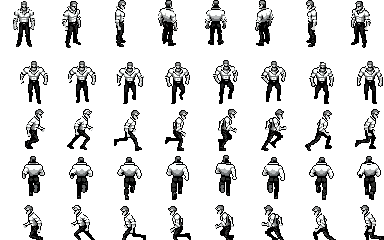
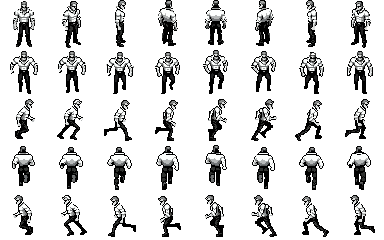
実況・解説・勝敗予想を削除、走りのコマがずれて下が切れる不具合を修正
- 観戦モードの実況・解説の字幕と勝敗予想を取り除く（自動カメラと体力の綱引きは残す）
- 十河・錠二・七海・鷺沼のキャラチップ：走りのコマ（68px）を48pxのマスに
  切り抜かずに貼っていたため、下にずれて次の段にはみ出していた。中央の48pxを
  切り抜いて作り直した

Claude-Session: https://claude.ai/code/session_01CfV5NHM6m6kNSHujH82y7P

diff --git a/public/js/spectate.js b/public/js/spectate.js
@@ -1,8 +1,5 @@
-// 観戦モードを面白くする仕掛け：実況の字幕、見どころを追う自動カメラ、両チームの体力の綱引き、勝敗予想
-import { ABILITIES } from './engine/data.js';
+// 観戦モード：見どころのある人物を追う自動カメラ
 import { dist } from './engine/vec.js';
-
-const pick = (rng, list) => list[Math.floor(rng() * list.length)];
 
 // ---------- 自動カメラ：いま一番見どころのある人物を映す ----------
 export class Director {
@@ -49,160 +46,4 @@ export class Director {
     this.fixed = i + 1 < ids.length ? ids[i + 1] : null;
     return this.fixed ? b.chars.find(c => c.id === this.fixed).name : '自動';
   }
-}
-
-// ---------- 実況：戦闘の記録から、見どころを字幕にする ----------
-export class Commentator {
-  constructor(b) {
-    this.b = b;
-    this.seen = new WeakSet();
-    this.queue = [];
-    this.current = null;
-    this.shownAt = 0;
-    this.lastEventAt = 0;
-    this.usedAbility = new Set();
-    this.lowHp = new Set();
-    this.leader = null;
-    this.firstBlood = false;
-    this.rng = Math.random;
-    this.say('実況', pick(this.rng, ['さあ、戦いの火ぶたが切られた！', '両者、位置についた。どんな戦いになるか！', 'スタンド使い同士の戦い、開始！']), 1);
-  }
-
-  say(who, text, pri = 1) {
-    // 優先度の低い字幕は詰まっていたら捨てる
-    if (this.queue.length > 3 && pri < 2) return;
-    this.queue.push({ who, text, pri });
-    this.queue.sort((p, q) => q.pri - p.pri);
-  }
-
-  name(id) {
-    const c = this.b.chars.find(x => x.id === id);
-    return c ? c.name : '';
-  }
-
-  // 新しい記録を見て字幕を作る
-  update() {
-    const b = this.b;
-    for (const e of b.log) {
-      if (this.seen.has(e)) continue;
-      this.seen.add(e);
-      this.react(e);
-    }
-    // 形勢逆転（与えたダメージの多い側が入れ替わった）
-    const d0 = b.teamDealt(0), d1 = b.teamDealt(1);
-    const lead = d0 > d1 + 8 ? 0 : d1 > d0 + 8 ? 1 : this.leader;
-    if (lead !== null && this.leader !== null && lead !== this.leader) {
-      this.say('実況', pick(this.rng, ['形勢逆転！ 流れが変わった！', 'ここでひっくり返した！ 与えたダメージで逆転！', '追い上げて、ついに逆転！']), 2);
-    }
-    this.leader = lead;
-    // 体力が少なくなった
-    for (const c of b.chars) {
-      if (c.alive && c.hp < c.maxHp * 0.25 && !this.lowHp.has(c.id)) {
-        this.lowHp.add(c.id);
-        this.say('実況', pick(this.rng, [`${c.name}、残りの体力がわずか！ 踏ん張れるか！`, `${c.name}は追い詰められた！ あと一撃が命取り！`]), 2);
-      }
-    }
-    // 静かな時間が続いたら、状況を伝える
-    if (b.t - this.lastEventAt > 9) {
-      this.lastEventAt = b.t;
-      this.say('解説', this.situation(), 0);
-    }
-  }
-
-  react(e) {
-    const b = this.b;
-    const t = e.text || '';
-    const actor = e.actor ? this.name(e.actor) : '';
-    let m;
-    if (e.kind === 'ko') {
-      this.lastEventAt = b.t;
-      this.say('実況', pick(this.rng, [`決まったー！ ${t.replace(/ は再起不能.*$/, '')}、再起不能！`, `${t.replace(/ は再起不能.*$/, '')}、ここで力尽きた！`]), 3);
-      return;
-    }
-    if (e.kind === 'damage' && (m = /^(.+?) に(.*?)(\d+)ダメージ/.exec(t))) {
-      const dmg = Number(m[3]);
-      if (/安全地帯/.test(t)) return;
-      if (!this.firstBlood) {
-        this.firstBlood = true;
-        this.lastEventAt = b.t;
-        this.say('実況', `先に当てたのは${actor || '攻撃側'}！ ${m[1]}に${dmg}ダメージ！`, 2);
-      } else if (dmg >= 15) {
-        this.lastEventAt = b.t;
-        this.say('実況', pick(this.rng, [`強烈！ ${m[1]}に${dmg}ダメージ！`, `重い一撃が入った！ ${m[1]}、${dmg}ダメージ！`, `これは効いた！ ${dmg}ダメージ！`]), 2);
-      }
-      return;
-    }
-    if (e.kind === 'ability' && e.actor) {
-      const c = b.chars.find(x => x.id === e.actor);
-      const ab = c && ABILITIES[c.def.abilities[0]];
-      if (!ab) return;
-      const eff = (m = /『[^』]+』— ([^（！]+)/.exec(t)) ? m[1].slice(0, 26) : '';
-      this.lastEventAt = b.t;
-      if (!this.usedAbility.has(c.id)) {
-        this.usedAbility.add(c.id);
-        this.say('実況', `出た！ ${c.name}の『${ab.name}』！`, 2);
-        this.say('解説', this.explain(c, ab), 1);
-      } else if (eff && this.rng() < 0.35) this.say('実況', `${c.name}、${eff}`, 1);
-      return;
-    }
-    if (/炎が囲む|密室/.test(t) && /成立|囲む/.test(t)) { this.lastEventAt = b.t; this.say('実況', '密室が完成！ ここからは錠二の間合いだ！', 3); return; }
-    if (/転んだ|倒れた|叩きつけられた|床が抜け/.test(t) && e.kind === 'combat') { this.lastEventAt = b.t; this.say('実況', pick(this.rng, ['倒れた！ 追い打ちのチャンス！', '足元をすくった！ ここは攻め時！']), 1); return; }
-    if (/安全地帯が狭まり始めた/.test(t)) { this.say('実況', '安全地帯が狭まる！ 逃げ場がなくなっていくぞ！', 2); return; }
-    if (/サイレン/.test(t)) { this.say('実況', 'サイレンが聞こえてきた！ 警察が来る前に決着をつけられるか！', 2); return; }
-    if (e.kind === 'speech' && e.actor && this.rng() < 0.3) { this.say('実況', `${actor}、何か言っている……「${t.replace(/^.*?「/, '').replace(/」.*$/, '').slice(0, 24)}」`, 0); }
-  }
-
-  // 能力の解説（最初に使った時だけ）
-  explain(c, ab) {
-    const short = {
-      perpendicular: '触れた面からきっかり10m、直角に弾き出す能力。壁が近いほど危ない',
-      hotel: '最後の出口を自分で閉めると、建物が炎の密室になる。中に入ったら要注意',
-      echo: '音を集めて運ぶ群体。大きな音を3つ集めて耳元で鳴らされると倒れる',
-      seventh: '跳ね返るほど威力が上がる弾。物陰でも安心できない',
-      vacant: '手で触れた物を粉にする。足元も、武器も、壁も',
-      corvette: '車両が通った所に口を残し、食いしばると全部が噛みつく',
-    }[ab.id];
-    return short ? `『${ab.name}』は、${short}。` : `『${ab.name}』に注目。`;
-  }
-
-  // 静かな時の状況説明
-  situation() {
-    const b = this.b;
-    const alive = b.chars.filter(c => c.alive);
-    let best = null;
-    for (const a of alive) for (const e of b.enemiesOf(a)) {
-      if (!e.alive) continue;
-      const d = dist(a.x, a.y, e.x, e.y);
-      if (!best || d < best.d) best = { a, e, d };
-    }
-    if (!best) return '静かな時間が続く。';
-    if (best.d > 20) return pick(this.rng, ['お互いの姿はまだ見えていない。どちらが先に見つけるか。', `${best.a.name}と${best.e.name}、まだ距離がある。探り合いの時間だ。`]);
-    if (best.d > 8) return `${best.a.name}と${best.e.name}の距離はおよそ${Math.round(best.d)}m。次の一手で動くか。`;
-    return `${best.a.name}と${best.e.name}、目と鼻の先！ 一瞬も目が離せない。`;
-  }
-
-  // 字幕を1つずつ表示する（最低2.4秒）
-  next(now) {
-    if (this.current && now - this.shownAt < (this.current.pri >= 2 ? 2600 : 2200)) return null;
-    if (!this.queue.length) {
-      if (this.current && now - this.shownAt > 4200) { this.current = null; return { clear: true }; }
-      return null;
-    }
-    this.current = this.queue.shift();
-    this.shownAt = now;
-    return this.current;
-  }
-}
-
-// ---------- 勝敗予想の成績 ----------
-const KEY = 'nouryoku.predict';
-export function predictStats() {
-  try { return JSON.parse(localStorage.getItem(KEY)) || { hit: 0, total: 0 }; } catch { return { hit: 0, total: 0 }; }
-}
-export function recordPrediction(hit) {
-  const s = predictStats();
-  s.total++;
-  if (hit) s.hit++;
-  try { localStorage.setItem(KEY, JSON.stringify(s)); } catch { /* 保存できない環境 */ }
-  return s;
 }

diff --git a/public/js/main.js b/public/js/main.js
@@ -10,7 +10,7 @@ import { pointInRect, dist } from './engine/vec.js';
 import { MAPS } from './engine/maps.js';
 import { loadFxSheet, saveFxBlob, loadChips } from './fx.js';
 import { Sound } from './audio.js';
-import { Director, Commentator, predictStats, recordPrediction } from './spectate.js';
+import { Director } from './spectate.js';
 
 const $ = s => document.querySelector(s);
 const params = new URLSearchParams(location.search);
@@ -413,34 +413,15 @@ function startBattle() {
   if (!state.spectate) $('#cmd').focus();
 }
 
-// ---------- 観戦：自動カメラ・実況・体力の綱引き・勝敗予想 ----------
+// ---------- 観戦：自動カメラ・体力の綱引き ----------
 
-const pick2 = list => list[Math.floor(Math.random() * list.length)];
 const teamNames = (b, t) => b.chars.filter(c => c.team === t).map(c => c.name).join('・');
 
 function setupSpectate(b) {
   const on = state.spectate;
   state.director = on ? new Director() : null;
-  state.talk = on ? new Commentator(b) : null;
-  state.prediction = null;
-  for (const id of ['#tug', '#cam-btn', '#talk-btn']) $(id).classList.toggle('hidden', !on);
-  $('#commentary').classList.add('hidden');
+  for (const id of ['#tug', '#cam-btn']) $(id).classList.toggle('hidden', !on);
   $('#cam-btn').textContent = 'カメラ：自動';
-  if (!on) return;
-  // 始まる前に勝敗を予想する（選ぶまで止めておく）
-  state.paused = true;
-  const st = predictStats();
-  $('#predict-body').textContent = `${teamNames(b, 0)} 対 ${teamNames(b, 1)}${st.total ? `（これまでの的中 ${st.hit}/${st.total}）` : ''}`;
-  $('#predict-btns').innerHTML = [0, 1].map(t => `<button class="big" data-team="${t}">${b.teamSize > 1 ? `チーム${'AB'[t]}：` : ''}${teamNames(b, t)}</button>`).join('');
-  $('#predict').classList.remove('hidden');
-}
-
-function closePredict(team) {
-  state.prediction = team;
-  $('#predict').classList.add('hidden');
-  state.paused = false;
-  updatePause();
-  if (state.talk && team !== null) state.talk.say('実況', `あなたの予想は${teamNames(state.battle, team)}！ さあ、どうなるか！`, 3);
 }
 
 function updateSpectate(now) {
@@ -453,26 +434,6 @@ function updateSpectate(now) {
   $('#tug .tug-fill').style.width = `${(a + z > 0 ? a / (a + z) : 0.5) * 100}%`;
   $('#tug .tug-a').textContent = `${teamNames(b, 0)} ${Math.round(a * 100)}%`;
   $('#tug .tug-b').textContent = `${Math.round(z * 100)}% ${teamNames(b, 1)}`;
-  // 実況の字幕
-  if (!state.talkOn) return;
-  // 作戦を考えている間（ターンの切れ目）は、その旨を出しておく
-  if (state.turn.phase !== 'execute' && !b.over && state.thinkingTurn !== state.turn.turn) {
-    state.thinkingTurn = state.turn.turn;
-    if (state.turn.turn > 1) state.talk.say('解説', pick2(['両者、次の一手を読み合っている……', 'ここで作戦タイム。相手の出方を何通りも読んでいる。', '静かな読み合い。次はどう動くか。']), 1);
-  }
-  state.talk.update();
-  const line = state.talk.next(now);
-  const box = $('#commentary');
-  if (line && line.clear) box.classList.add('hidden');
-  else if (line) {
-    box.querySelector('b').textContent = line.who;
-    box.querySelector('span').textContent = line.text;
-    box.classList.toggle('kaisetsu', line.who === '解説');
-    box.classList.toggle('big', line.pri >= 3);
-    box.classList.remove('hidden');
-    // 字幕の出だしの動きをやり直す
-    box.style.animation = 'none'; void box.offsetWidth; box.style.animation = '';
-  }
 }
 
 function playerLog(text, kind = 'plan') {
@@ -660,14 +621,7 @@ function showResult() {
   if (state.spectate) {
     const names = t => b.chars.filter(c => c.team === t).map(c => c.name).join('・');
     $('#result-title').textContent = b.winnerTeam === null ? '引き分け' : `${b.teamSize > 1 ? (b.winnerTeam === 0 ? 'チームA' : 'チームB') : names(b.winnerTeam)}の勝ち`;
-    let guess = '';
-    if (state.prediction !== null && state.prediction !== undefined) {
-      const hit = b.winnerTeam === state.prediction;
-      const st = recordPrediction(hit);
-      guess = `\n${hit ? '🎯 予想的中！' : '予想はずれ……'}（これまでの的中 ${st.hit}/${st.total}）`;
-      state.prediction = null;
-    }
-    $('#result-body').textContent = `${names(0)} 対 ${names(1)}／与えたダメージ ${b.teamDealt(0)} 対 ${b.teamDealt(1)}（${b.t.toFixed(1)}秒${b.endReason === 'police' ? '・警察到着で判定' : ''}）${guess}`;
+    $('#result-body').textContent = `${names(0)} 対 ${names(1)}／与えたダメージ ${b.teamDealt(0)} 対 ${b.teamDealt(1)}（${b.t.toFixed(1)}秒${b.endReason === 'police' ? '・警察到着で判定' : ''}）`;
     setTimeout(() => $('#result').classList.remove('hidden'), 1800);
     return;
   }
@@ -978,15 +932,8 @@ window.addEventListener('DOMContentLoaded', async () => {
     $('#zoom-btn').textContent = z === 'near' ? '全体表示' : '拡大表示';
   };
   $('#zoom-btn').addEventListener('click', toggleZoom);
-  $('#predict-btns').addEventListener('click', e => { const t = e.target.closest('[data-team]'); if (t) closePredict(Number(t.dataset.team)); });
-  $('#predict-skip').addEventListener('click', () => closePredict(null));
   $('#cam-btn').addEventListener('click', () => { if (state.battle && state.director) $('#cam-btn').textContent = `カメラ：${state.director.cycle(state.battle)}`; });
-  state.talkOn = true;
-  $('#talk-btn').addEventListener('click', () => {
-    state.talkOn = !state.talkOn;
-    $('#talk-btn').textContent = `実況：${state.talkOn ? 'ON' : 'OFF'}`;
-    if (!state.talkOn) $('#commentary').classList.add('hidden');
-  });
+
   // 表示：2D → 3D → TPS → 2D の順に切り替える
   $('#view-btn').addEventListener('click', () => setView({ '2d': '3d', '3d': 'tps', tps: '2d' }[state.view || '2d']));
   try { const v = localStorage.getItem('nouryoku.view'); if (v === '3d' || v === 'tps') setView(v); } catch { /* 保存できない環境では2D */ }

diff --git a/public/style.css b/public/style.css
@@ -225,19 +225,10 @@ button:disabled { opacity: .5; cursor: default; }
 .time .zone { color: #d6aaff; } .time .zone-out { color: #ff6bd6; font-weight: bold; }
 #field3d { touch-action: none; }
 
-/* 観戦：実況の字幕・体力の綱引き・勝敗予想 */
-.commentary { position: absolute; left: 50%; bottom: 14px; transform: translateX(-50%); max-width: 86%; background: rgba(10,8,14,0.82); border: 2px solid var(--gold); border-radius: 8px; padding: 6px 14px; font-size: 1rem; line-height: 1.45; pointer-events: none; text-align: center; animation: talkin .25s ease-out; }
-.commentary b { color: var(--gold); margin-right: 8px; font-size: .8rem; }
-.commentary.kaisetsu { border-color: #9be7ff; }
-.commentary.kaisetsu b { color: #9be7ff; }
-.commentary.big { font-size: 1.15rem; font-weight: bold; }
-@keyframes talkin { from { opacity: 0; transform: translate(-50%, 8px); } to { opacity: 1; transform: translate(-50%, 0); } }
+/* 観戦：体力の綱引き */
 .tug { position: absolute; top: 8px; left: 50%; transform: translateX(-50%); width: min(560px, 90%); display: flex; align-items: center; gap: 8px; font-size: .78rem; font-weight: bold; pointer-events: none; text-shadow: 1px 1px 0 #000; }
 .tug-bar { flex: 1; height: 12px; background: #e85d5d; border: 2px solid #000; border-radius: 6px; overflow: hidden; }
 .tug-fill { display: block; height: 100%; background: #4cc9f0; transition: width .3s; }
 .tug-a { color: #4cc9f0; white-space: nowrap; overflow: hidden; text-overflow: ellipsis; max-width: 32%; }
 .tug-b { color: #ff8a8a; white-space: nowrap; overflow: hidden; text-overflow: ellipsis; max-width: 32%; text-align: right; }
-.predict-btns { display: flex; gap: 10px; justify-content: center; flex-wrap: wrap; margin: 10px 0; }
-.predict-btns button { min-width: 140px; }
-@media (max-width: 1000px) { .commentary { font-size: .85rem; bottom: 6px; } .commentary.big { font-size: .95rem; } }
-#result-body { white-space: pre-line; }
+@media (max-width: 1000px) { #result-body { white-space: pre-line; }

diff --git a/public/index.html b/public/index.html
@@ -70,9 +70,8 @@
           <div id="pause-badge" class="pause-badge hidden">一時停止中</div>
           <div id="screen-flash" class="screen-flash"></div>
           <div id="tooltip" class="tooltip hidden"></div>
-          <!-- 観戦：両チームの体力の綱引きと、実況の字幕 -->
+          <!-- 観戦：両チームの体力の綱引き -->
           <div id="tug" class="tug hidden"><span class="tug-a"></span><div class="tug-bar"><i class="tug-fill"></i></div><span class="tug-b"></span></div>
-          <div id="commentary" class="commentary hidden"><b></b><span></span></div>
         </div>
         <div class="status-row">
           <div id="phase-label" class="phase"></div>
@@ -101,7 +100,6 @@
           <button id="sfx-btn" class="small">効果音：ON</button>
           <button id="cine-btn" class="small">寄り・スロー：ON</button>
           <button id="cam-btn" class="small hidden" title="観戦のカメラ：自動（見どころを追う）か、1人に固定">カメラ：自動</button>
-          <button id="talk-btn" class="small hidden">実況：ON</button>
           <button id="quit-btn" class="small">タイトルへ</button>
         </div>
       </div>
@@ -135,14 +133,6 @@
   </section>
 
   <div id="cutin" class="cutin"></div>
-  <div id="predict" class="overlay hidden">
-    <div class="overlay-box">
-      <h2>勝つのはどっち？</h2>
-      <p id="predict-body"></p>
-      <div id="predict-btns" class="predict-btns"></div>
-      <button id="predict-skip" class="small">予想しないで観る</button>
-    </div>
-  </div>
   <div id="result" class="overlay hidden">
     <div class="overlay-box">
       <h2 id="result-title"></h2>

diff --git a/README.md b/README.md
@@ -51,10 +51,8 @@ npm start                 # → http://127.0.0.1:8787/
 - タイトル画面の「遊び方」で「CPU同士を観戦する」を選ぶと、自分のキャラも含めて全員を CPU が操作します（Gemini が使える時は Gemini、使えない時は簡易思考）。
 - 観戦中は全員の姿・行動計画・ログが見え、入力欄は出ません。再生速度は4倍まで上げられます。1対1・2対2どちらでも観戦できます（2対2はチームA・チームBの表示）。
 
-- **実況**：画面の下に、先制・強烈な一撃・能力の発動（最初の1回は解説つき）・転倒・密室の完成・形勢逆転・体力わずか・再起不能などを字幕で伝えます。静かな時は距離や状況を解説します。「実況：ON/OFF」で消せます。
 - **自動カメラ**：殴り合っている・殴られた・能力を構えている人物など、見どころのある人を自動で映します。「カメラ」ボタンで1人に固定もできます。
 - **体力の綱引き**：画面の上に、両チームの残り体力の割合を出します。3D表示では頭の上に体力ゲージも出ます。
-- **勝敗予想**：始まる前に勝つ側を予想でき、終わった時に的中・はずれとこれまでの的中率を出します。
 
 ### 2対2
 
